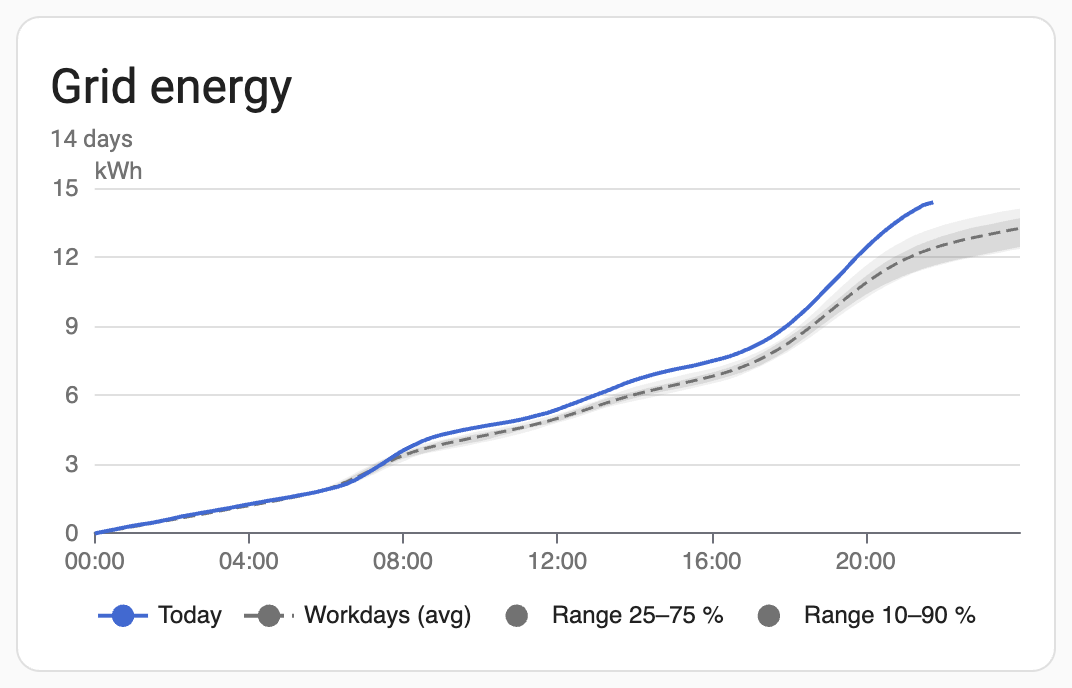
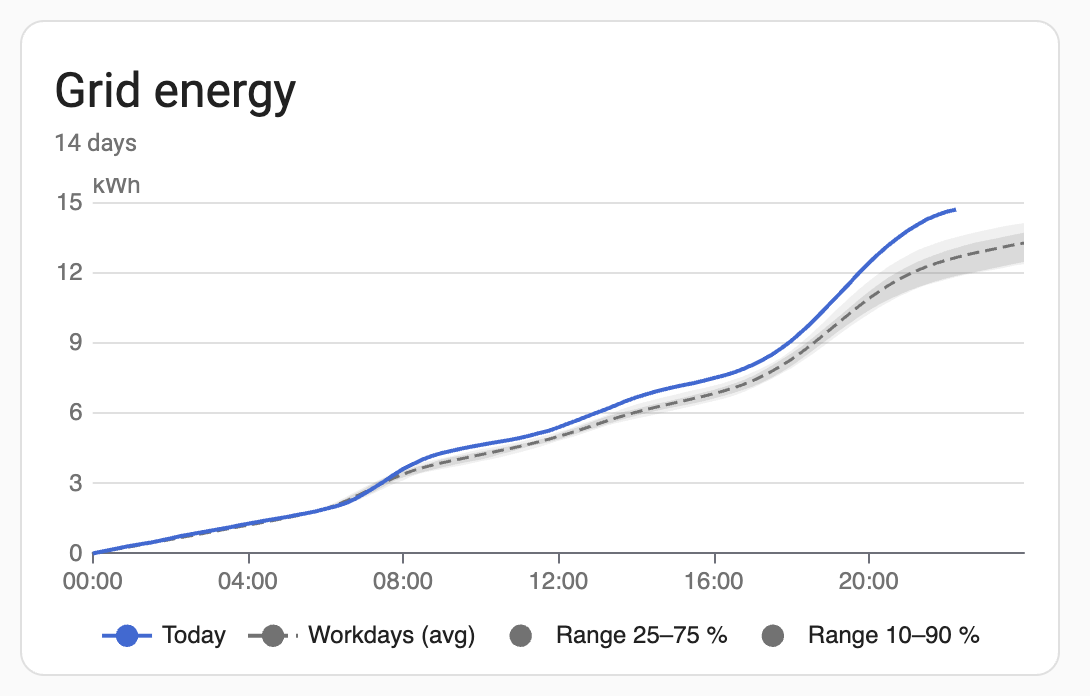
Doku: Bilder neu, Beispiel vorher/nachher mit Bild, Abstände in der Spezifikation
- alle Bilder bis auf heatmap-compare neu aus der Vorschau (aktuelle
  Achse, Abstände, Bänder), neu heatmap-before-after.png
- Vorschau: simulierte Therme mit Stichtag für vorher/nachher
- SPEC: Abstände wie die native Verlaufskarte, gemessen

diff --git a/preview.html b/preview.html
@@ -2063,6 +2063,19 @@ const power = (t) => {
   return 180 + peak((we ? 9.5 : 7) + s1, 0.8, 600 * a) + peak(12.5 + s2, 1, (we ? 900 : 300) * (0.5 + rnd(d * 5.3))) + peak(19 + s1 / 2, 1.5, 1100 * a) + rnd(Math.floor(t / 300e3)) * 250;
 };
 // Bewegung Gäste-WC: kurze Besuche, häufiger morgens und abends
+// Therme: vor dem Stichtag häufige kurze Starts, danach seltener (für vorher/nachher)
+const SINCE = (() => { const d = new Date(Date.now() - 10 * 864e5); return `${d.getFullYear()}-${String(d.getMonth() + 1).padStart(2, "0")}-${String(d.getDate()).padStart(2, "0")}`; })();
+const sinceTs = new Date(`${SINCE}T00:00:00`).getTime();
+const boilerEntries = (start, end) => {
+  const out = [{ s: "off", lu: start / 1000 }];
+  for (let t = Math.ceil(start / 300e3) * 300e3; t < end; t += 300e3) {
+    const h = localHour(t);
+    const demand = 0.35 + 0.25 * Math.cos(((h - 5) / 24) * 2 * Math.PI); // nachts und morgens mehr
+    const p = t < sinceTs ? demand * 0.9 : demand * 0.45;
+    if (rnd(t / 997) < p) out.push({ s: "on", lu: t / 1000 }, { s: "off", lu: Math.min(end, t + 90e3) / 1000 });
+  }
+  return out;
+};
 const motionEntries = (start, end) => {
   const out = [{ s: "off", lu: start / 1000 }];
   for (let t = Math.ceil(start / 600e3) * 600e3; t < end; t += 600e3) {
@@ -2079,6 +2092,7 @@ const motionEntries = (start, end) => {
 const states = {
   "sensor.leistung": { entity_id: "sensor.leistung", state: "642", attributes: { friendly_name: L("Strom Netzbezug", "Grid power"), unit_of_measurement: "W", state_class: "measurement", device_class: "power" } },
   "sensor.zaehler": { entity_id: "sensor.zaehler", state: "12345", attributes: { friendly_name: L("Stromzähler", "Grid energy"), unit_of_measurement: "kWh", state_class: "total_increasing", device_class: "energy" } },
+  "binary_sensor.therme": { entity_id: "binary_sensor.therme", state: "off", attributes: { friendly_name: L("Therme Brenner", "Boiler burner"), device_class: "running" } },
   "binary_sensor.bewegung": { entity_id: "binary_sensor.bewegung", state: "off", attributes: { friendly_name: L("Bewegung Gäste-WC", "Guest toilet motion"), device_class: "motion" } },
 };
 
@@ -2107,7 +2121,7 @@ const hass = {
       }
       return { [id]: rows };
     }
-    if (msg.type === "history/history_during_period") return { [id]: motionEntries(s, e) };
+    if (msg.type === "history/history_during_period") return { [id]: id === "binary_sensor.therme" ? boilerEntries(s, e) : motionEntries(s, e) };
     return null;
   },
 };
@@ -2122,6 +2136,7 @@ const configs = [
   { type: "custom:pattern-card", entity: "binary_sensor.bewegung", mode: "graph", days: 28 },
   { type: "custom:pattern-card", entity: "sensor.leistung", mode: "graph", days: 28, compare: "weekday_weekend", name: L("Werktage gegen Wochenende", "Workdays vs. weekend") },
   { type: "custom:pattern-card", entity: "binary_sensor.bewegung", mode: "heatmap", days: 28, compare: "weekday_weekend", name: L("Belegung Werktage/Wochenende", "Occupancy: workdays vs. weekend") },
+  { type: "custom:pattern-card", entity: "binary_sensor.therme", mode: "heatmap", days: 28, statistic: "events", compare: "before_after", since: SINCE, name: L("Brennerstarts vorher/nachher", "Boiler starts: before vs. after") },
 ];
 
 const yaml = (c) => Object.entries(c).map(([k, v]) => `${k}: ${Array.isArray(v) ? `[${v.join(", ")}]` : v}`).join("\n");

diff --git a/tools/preview.template.html b/tools/preview.template.html
@@ -120,6 +120,19 @@ const power = (t) => {
   return 180 + peak((we ? 9.5 : 7) + s1, 0.8, 600 * a) + peak(12.5 + s2, 1, (we ? 900 : 300) * (0.5 + rnd(d * 5.3))) + peak(19 + s1 / 2, 1.5, 1100 * a) + rnd(Math.floor(t / 300e3)) * 250;
 };
 // Bewegung Gäste-WC: kurze Besuche, häufiger morgens und abends
+// Therme: vor dem Stichtag häufige kurze Starts, danach seltener (für vorher/nachher)
+const SINCE = (() => { const d = new Date(Date.now() - 10 * 864e5); return `${d.getFullYear()}-${String(d.getMonth() + 1).padStart(2, "0")}-${String(d.getDate()).padStart(2, "0")}`; })();
+const sinceTs = new Date(`${SINCE}T00:00:00`).getTime();
+const boilerEntries = (start, end) => {
+  const out = [{ s: "off", lu: start / 1000 }];
+  for (let t = Math.ceil(start / 300e3) * 300e3; t < end; t += 300e3) {
+    const h = localHour(t);
+    const demand = 0.35 + 0.25 * Math.cos(((h - 5) / 24) * 2 * Math.PI); // nachts und morgens mehr
+    const p = t < sinceTs ? demand * 0.9 : demand * 0.45;
+    if (rnd(t / 997) < p) out.push({ s: "on", lu: t / 1000 }, { s: "off", lu: Math.min(end, t + 90e3) / 1000 });
+  }
+  return out;
+};
 const motionEntries = (start, end) => {
   const out = [{ s: "off", lu: start / 1000 }];
   for (let t = Math.ceil(start / 600e3) * 600e3; t < end; t += 600e3) {
@@ -136,6 +149,7 @@ const motionEntries = (start, end) => {
 const states = {
   "sensor.leistung": { entity_id: "sensor.leistung", state: "642", attributes: { friendly_name: L("Strom Netzbezug", "Grid power"), unit_of_measurement: "W", state_class: "measurement", device_class: "power" } },
   "sensor.zaehler": { entity_id: "sensor.zaehler", state: "12345", attributes: { friendly_name: L("Stromzähler", "Grid energy"), unit_of_measurement: "kWh", state_class: "total_increasing", device_class: "energy" } },
+  "binary_sensor.therme": { entity_id: "binary_sensor.therme", state: "off", attributes: { friendly_name: L("Therme Brenner", "Boiler burner"), device_class: "running" } },
   "binary_sensor.bewegung": { entity_id: "binary_sensor.bewegung", state: "off", attributes: { friendly_name: L("Bewegung Gäste-WC", "Guest toilet motion"), device_class: "motion" } },
 };
 
@@ -164,7 +178,7 @@ const hass = {
       }
       return { [id]: rows };
     }
-    if (msg.type === "history/history_during_period") return { [id]: motionEntries(s, e) };
+    if (msg.type === "history/history_during_period") return { [id]: id === "binary_sensor.therme" ? boilerEntries(s, e) : motionEntries(s, e) };
     return null;
   },
 };
@@ -179,6 +193,7 @@ const configs = [
   { type: "custom:pattern-card", entity: "binary_sensor.bewegung", mode: "graph", days: 28 },
   { type: "custom:pattern-card", entity: "sensor.leistung", mode: "graph", days: 28, compare: "weekday_weekend", name: L("Werktage gegen Wochenende", "Workdays vs. weekend") },
   { type: "custom:pattern-card", entity: "binary_sensor.bewegung", mode: "heatmap", days: 28, compare: "weekday_weekend", name: L("Belegung Werktage/Wochenende", "Occupancy: workdays vs. weekend") },
+  { type: "custom:pattern-card", entity: "binary_sensor.therme", mode: "heatmap", days: 28, statistic: "events", compare: "before_after", since: SINCE, name: L("Brennerstarts vorher/nachher", "Boiler starts: before vs. after") },
 ];
 
 const yaml = (c) => Object.entries(c).map(([k, v]) => `${k}: ${Array.isArray(v) ? `[${v.join(", ")}]` : v}`).join("\n");

diff --git a/SPEC.md b/SPEC.md
@@ -78,6 +78,7 @@ Die Karte erkennt den Typ der Entity und holt die Metadaten über `recorder/get_
 - **Zustände**: Die Referenz zeigt den Anteil aktiv je Slot (0–100 %). Heute erscheint als Stufenfläche 0/100 % (aktiv ja/nein), beim Modus `events` als Balken mit der Zahl der Ereignisse je Slot.
 - **Zähler**: Verbrauch je Slot, mit `cumulative: true` kumuliert ab Mitternacht („heute bis jetzt gegen sonst bis zu dieser Uhrzeit“).
 - **Tooltip**: Uhrzeit, heute, Referenz-Mittel und Spanne mit Einheit, Zahl der Referenztage.
+- **Abstände** (seit 0.6.1–0.6.3, gemessen gegen `hui-history-graph-card` auf dem Auto-Dashboard): Inhalt `padding: 0 16px 8px`, Diagramm `padding-top: 8px` wie `.entry-container.line` in `state-history-charts`, `grid.top` 12 statt 15 (gleicht aus, dass `containLabel` die Fläche um die halbe Höhe der obersten y-Beschriftung absenkt), keine Beschriftung am rechten Rand der x-Achse (24:00), sonst schrumpft `containLabel` die Fläche. Ergebnis: Zeichenfläche oben, rechts und unten pixelgleich mit der Verlaufskarte, links je nach Breite der Beschriftung ±3 px
 - **y-Achse** (seit 0.4.1): Nachkommastellen wie in HAs `statistics-chart` (`computeYAxisFractionDigits`, `_formatYAxisLabel`): aus dem Tick-Abstand bei 5 Intervallen über alle gezeichneten Werte, für alle Beschriftungen gleich, die 0 ohne Stellen. Die Genauigkeit der Entity (`display_precision`) gilt nur im Tooltip. Vorher stand dort „2“ neben „1,9“
 - **Kein Zoom**: Die Karte setzt `zoom-slider="never"` und übergibt ein eigenes `dataZoom`. Damit schaltet `ha-chart-base` das Zoomen per Ziehen und Mausrad ab (`_hasZoomableXAxis`).
 - **Laden**: `ha-chart-base` lädt HA erst bei Bedarf. Die Karte lässt es über `loadCardHelpers().createCardElement({ type: "statistics-graph", … })` nachladen und wartet auf `customElements.whenDefined("ha-chart-base")`. Theme, Sprache und Zahlenformat holt sich die Komponente selbst über Lit-Context vom HA-Baum, `hass` muss nicht durchgereicht werden.

diff --git a/README.md b/README.md
@@ -116,6 +116,8 @@ since: "2026-11-12"
 
 Did a new pump setting reduce how often the boiler starts? The heatmap shows the days before and from the given date on, plus a difference row (after − before). In graph mode both periods appear as two references.
 
+![Heatmap comparing boiler starts before and after a change](docs/images/heatmap-before-after.png)
+
 ## Options
 
 All options can also be set in the visual editor.
